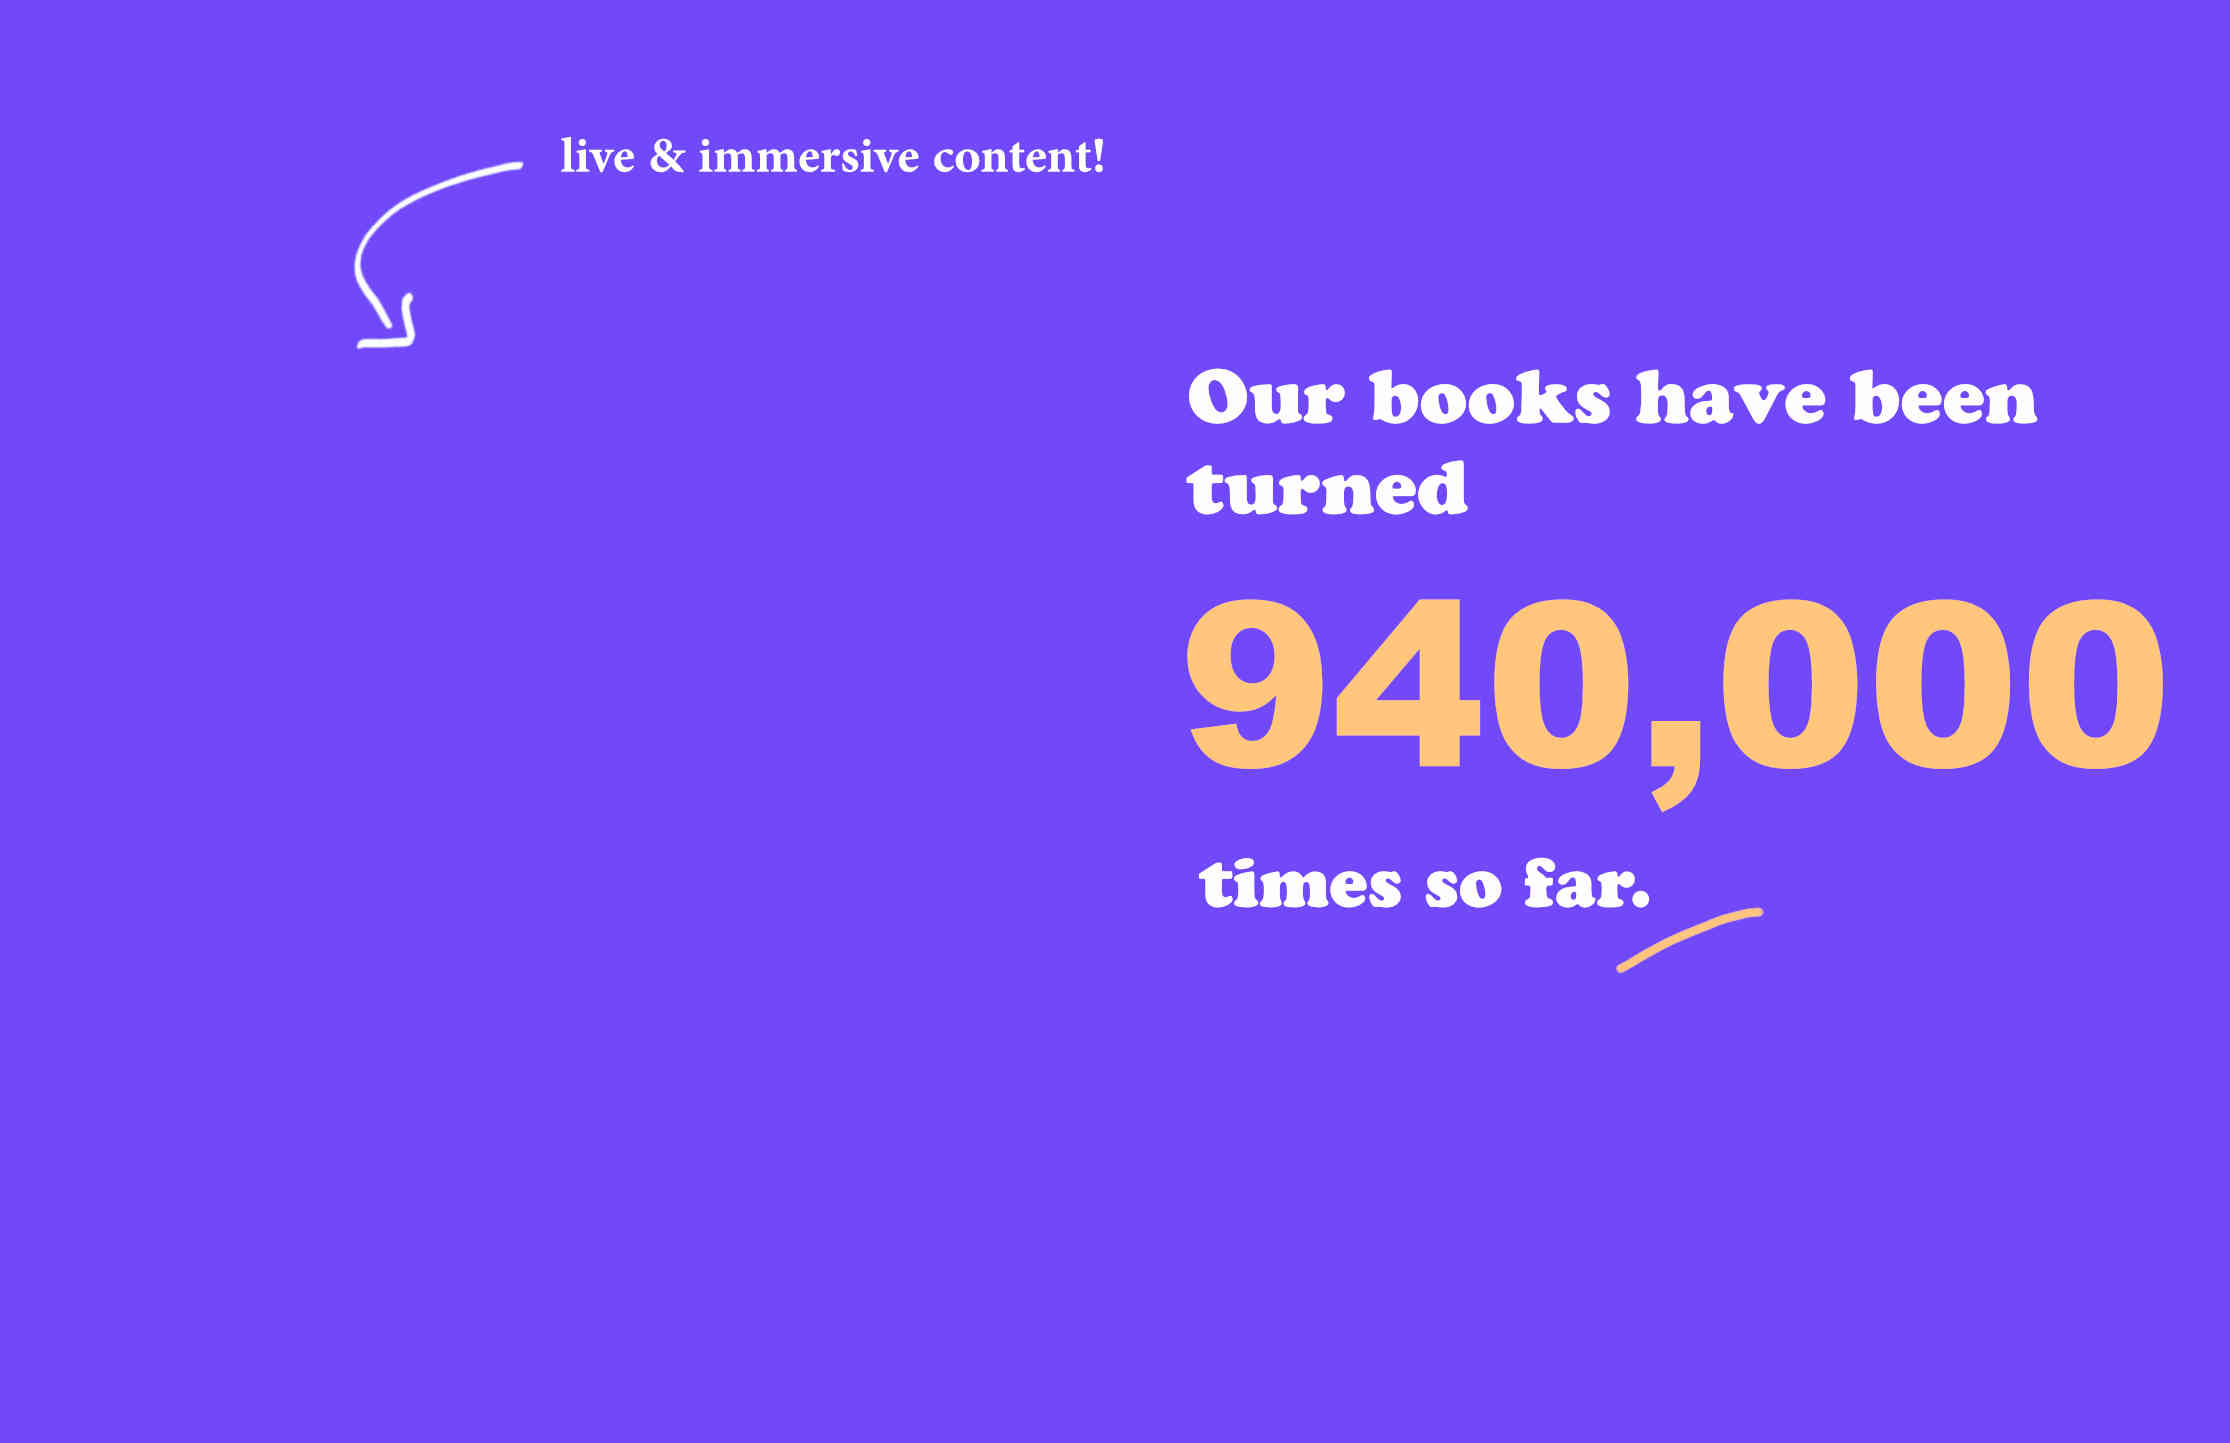
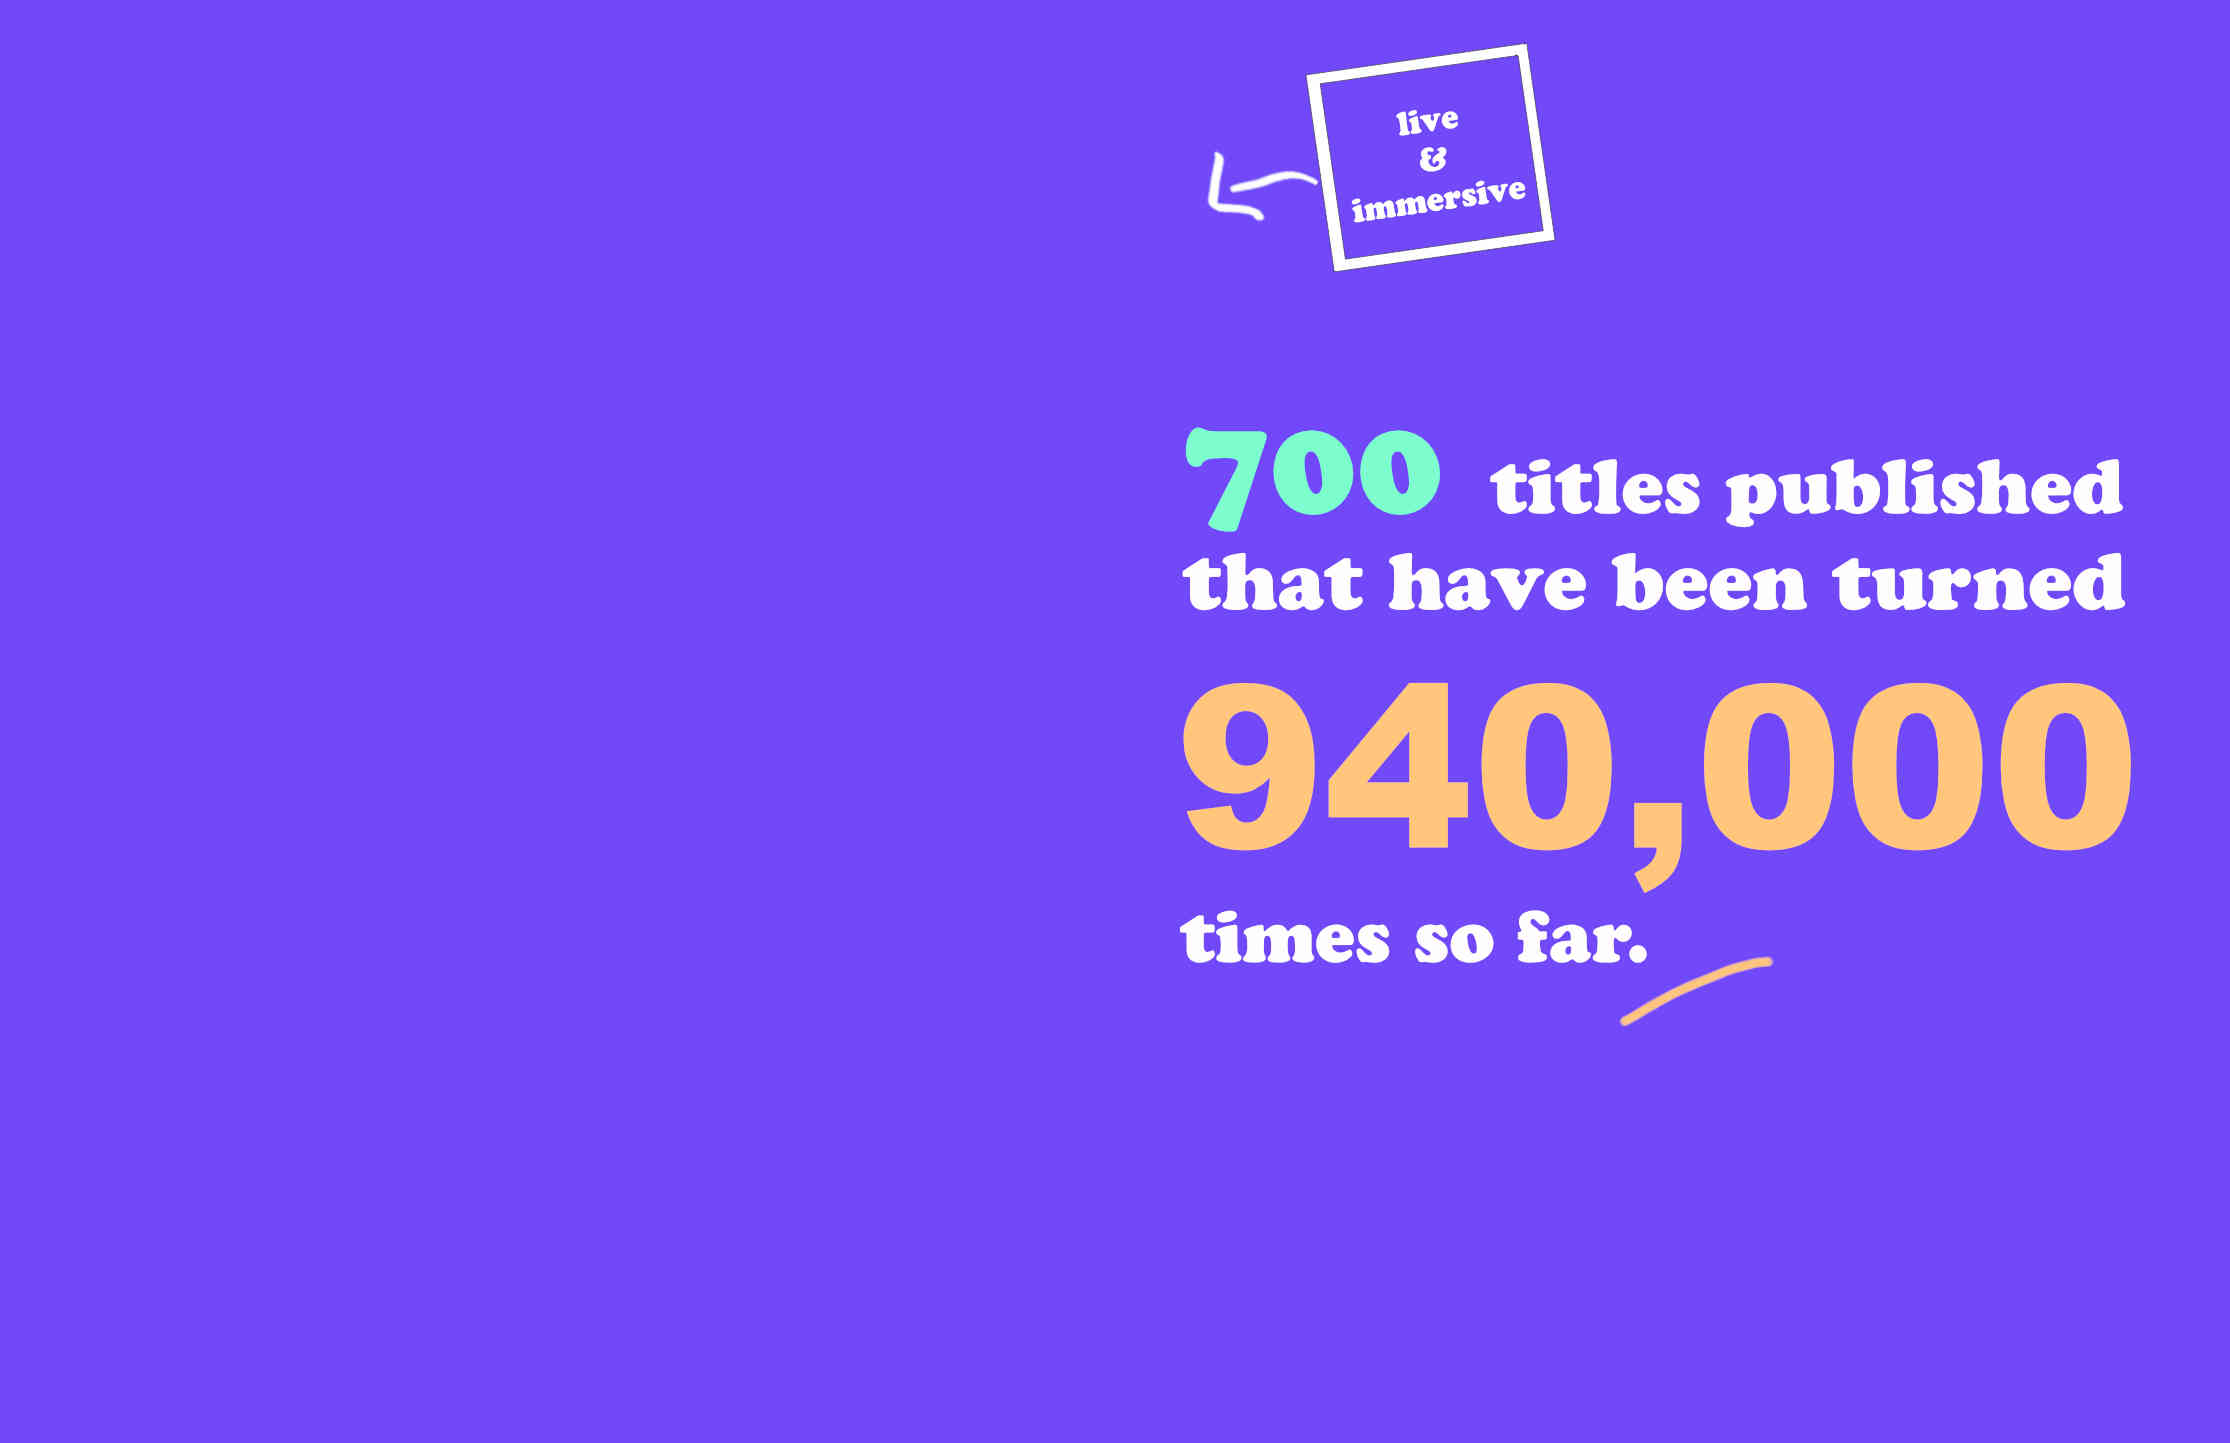
update blue slide

diff --git a/manuscript/page-8/style.css b/manuscript/page-8/style.css
@@ -7,7 +7,6 @@ body {
 
 }
 
-
 .ipad {
   background-image: url(https://raw.githubusercontent.com/marvindanig/elevator/master/assets/images/ipad.png);
   background-size: 100% 100%;
@@ -18,15 +17,15 @@ body {
 }
 
 .demo {
-	position: absolute;
-    top: 3.7vw;
-    left: 8.2vw;
-    width: 73.5vw;
-    height: calc(78.5vw * 1443/2228);
-    border: 0px none;
-    contain: strict;
-    will-change: content;
-    -webkit-transform: translateZ(0);
-    transform: translateZ(0);
-    -webkit-overflow-scrolling: touch;
+  position: absolute;
+  top: 10.3vw;
+  left: 5.5vw;
+  width: 78.9vw;
+  height: calc(74vw * 1443/1115);
+  border: 0px none;
+  contain: strict;
+  will-change: content;
+  -webkit-transform: translateZ(0);
+  transform: translateZ(0);
+  -webkit-overflow-scrolling: touch;
 }
